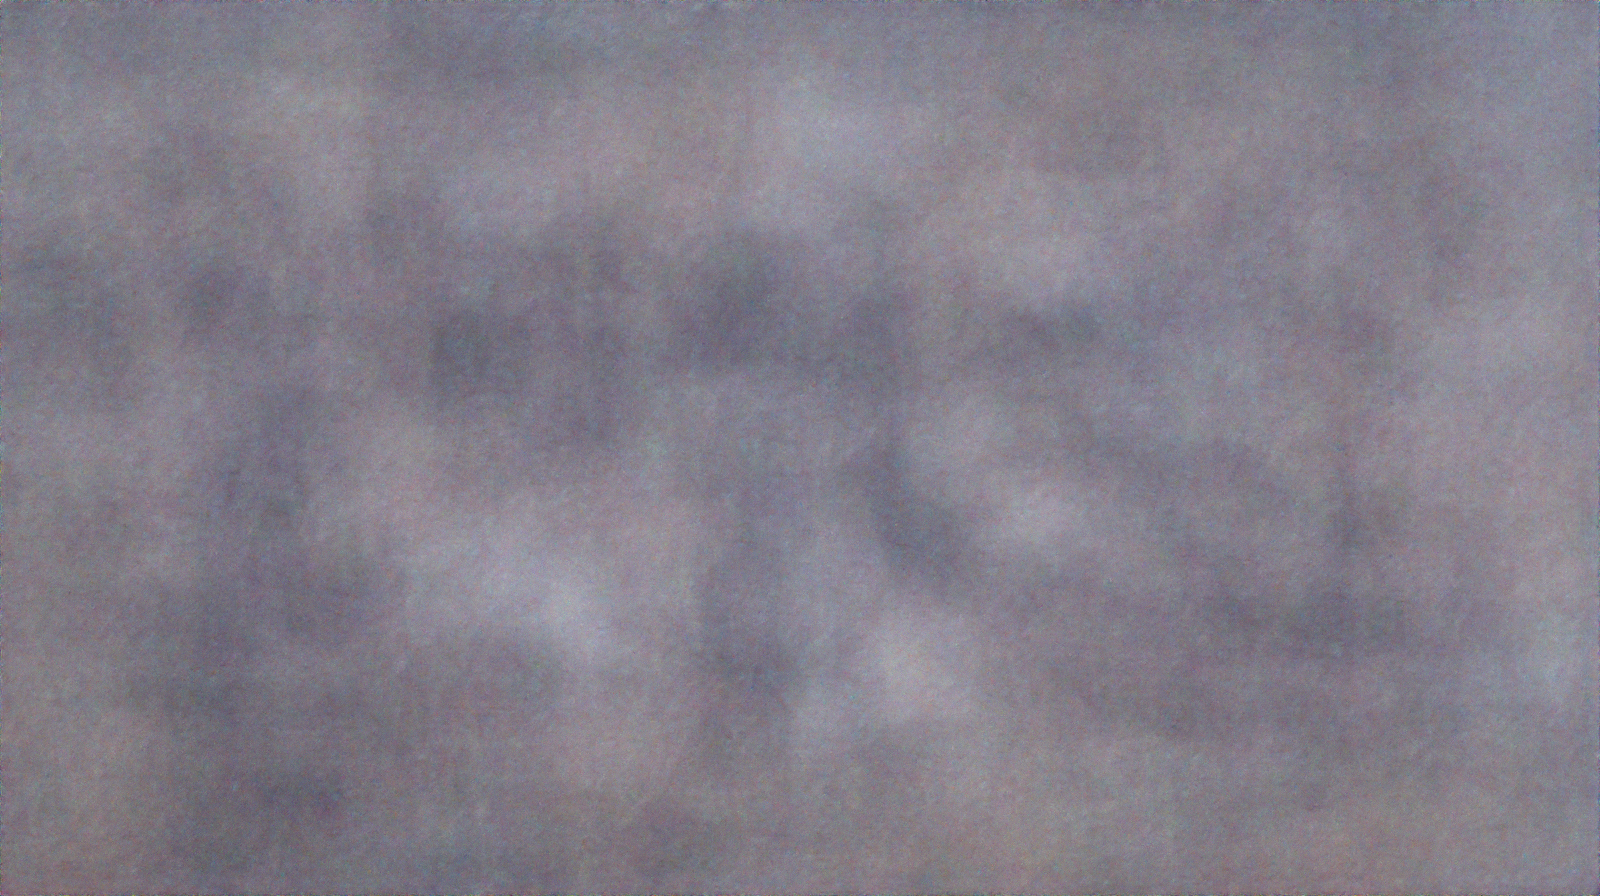
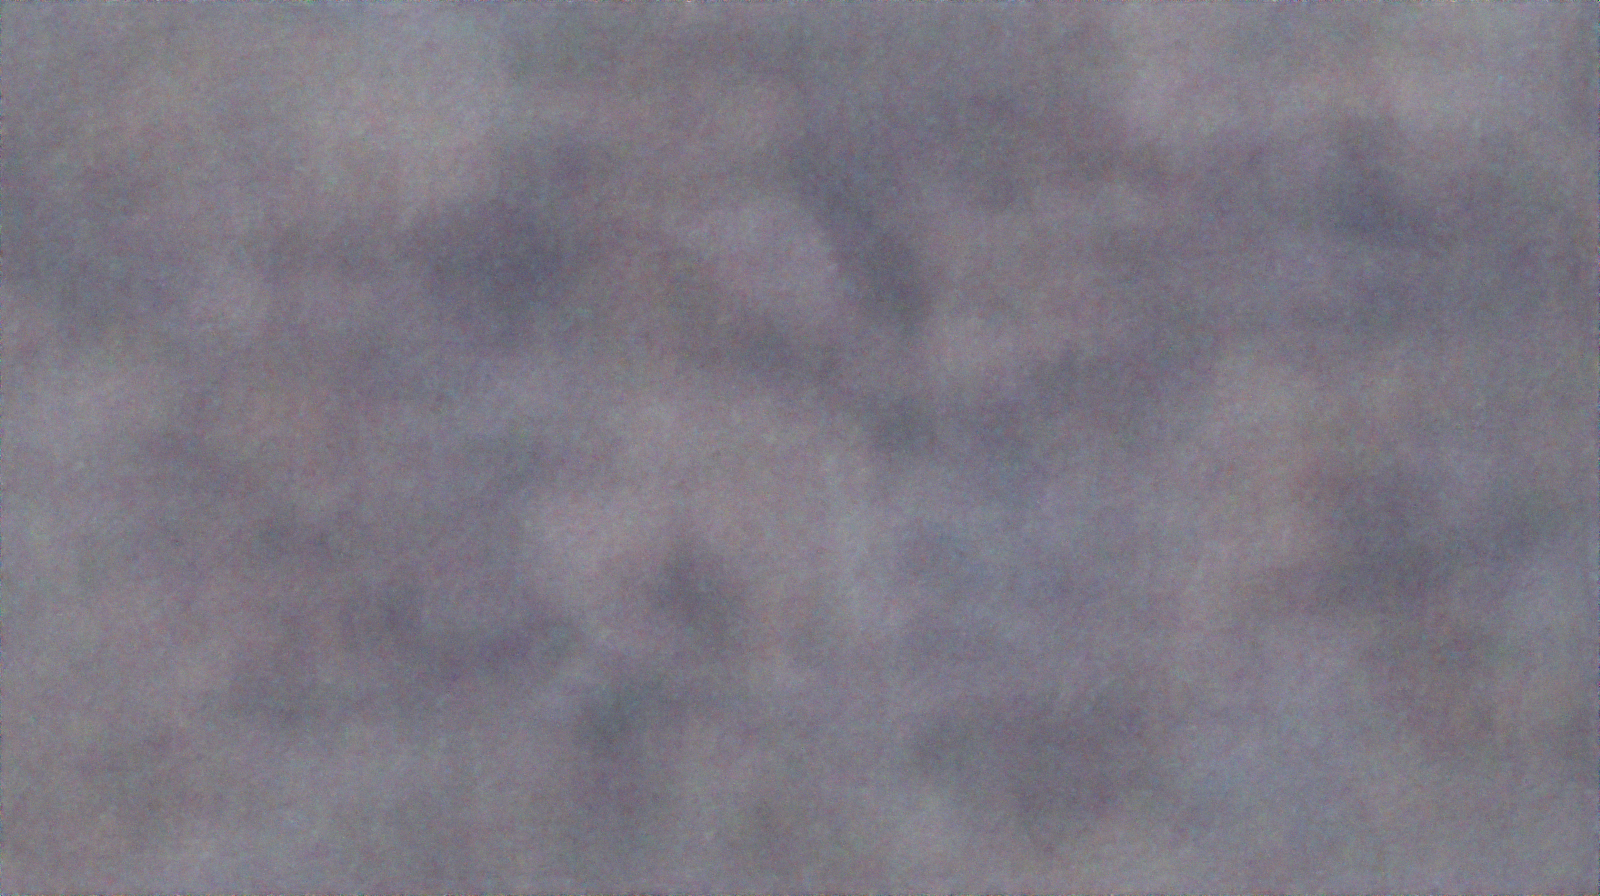
new

diff --git a/main.py b/main.py
@@ -942,7 +942,7 @@ diffusion_model = "512x512_diffusion_uncond_finetune_008100" #@param ["256x256_d
 use_secondary_model = True #@param {type: 'boolean'}
 
 timestep_respacing = 'ddim1000' # param ['25','50','100','150','250','500','1000','ddim25','ddim50', 'ddim75', 'ddim100','ddim150','ddim250','ddim500','ddim1000']  
-diffusion_steps = 1000 # param {type: 'number'}
+diffusion_steps = 500 # param {type: 'number'}
 use_checkpoint = False #@param {type: 'boolean'}
 ViTB32 = True #@param{type:"boolean"}
 ViTB16 = True #@param{type:"boolean"}
@@ -1229,15 +1229,10 @@ rand_mag = 0.05
 
 # %%
 text_prompts = [
-        "Someone woman using a large laptop that is a portal. by Gaston Bussière:13",
-        "there is one small bright yellow banana:5",
-        "the word 'HATICE' 'HATICE' 'HATICE' :13",
-        "woman is wearing a full length blue blanket:10",
-        "woman has dark hair:5",
-        "vibrant and detailed humanoid picture:6",
-        "by Zack Snyder:2",
-        "by Karol Bak:12",
-        "trending on Artstation:1"
+            "Someone using a computer that is a portal. by Gaston Bussière:8",
+            "by Zack Snyder:1",
+            "by Karol Bak:8",
+            "trending on Artstation:1"
 ]
 
 image_prompts = [ #currently disabled
